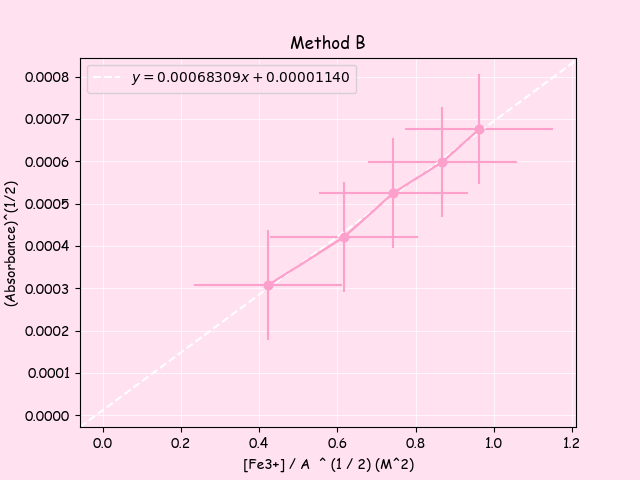
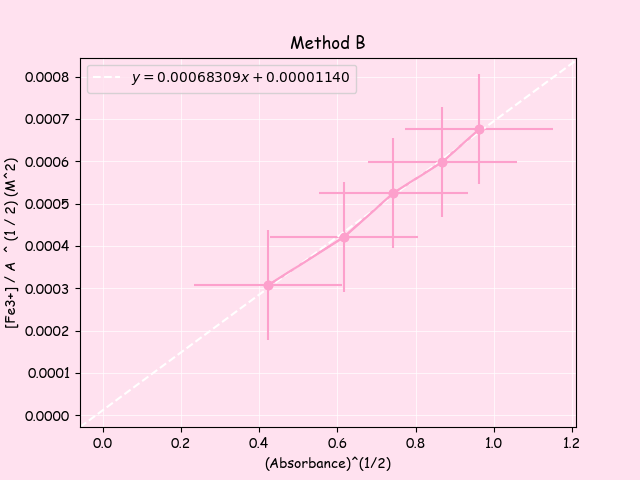
bruh

Changed region(s): [[0.375, 0.9375, 0.6562, 1.0], [0.0, 0.3125, 0.0312, 0.6875]]

diff --git a/part2.py b/part2.py
@@ -320,9 +320,9 @@ plt.errorbar(xaxis_4b, yaxis_4b, xerr = xerrb , yerr = yerrb, color = "#fda0cc",
 m, b, *_ = stats.linregress(xaxis_4b, yaxis_4b)
 plt.axline(xy1=(0, b), slope=m, label=f'$y = {m:.8f}x {b:+.8f}$', color = "w", linestyle = "--")
 plt.plot(xaxis_4b, yaxis_4b, marker = 'o', color = "#fda0cc" )
-plt.xlabel("[Fe3+] / A  ^ (1 / 2) (M^2)")
+plt.ylabel("[Fe3+] / A  ^ (1 / 2) (M^2)")
 plt.legend()
-plt.ylabel("(Absorbance)^(1/2)")
+plt.xlabel("(Absorbance)^(1/2)")
 plt.title("Method B")
 plt.grid(color = 'w', linestyle = '-', linewidth = 0.5)
 plt.savefig('part2_q4b.png')
